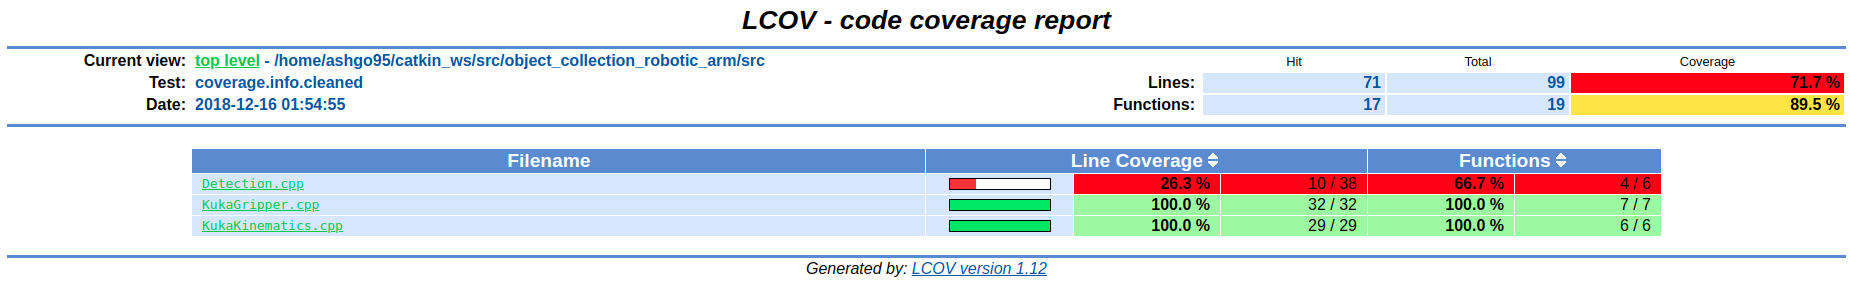
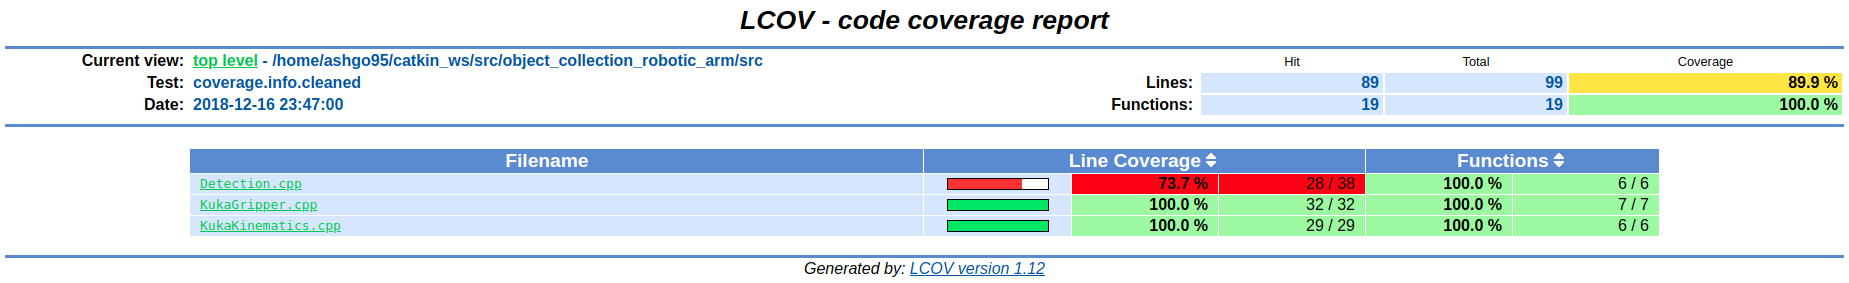
Task: 3-6: README
The readme file has been restructured and the code coverage has been updated as per the tests of the class Detection. We are still developing more tests, but for now this is the code coverage.

diff --git a/README.md b/README.md
@@ -76,6 +76,18 @@ The total length of the video presentation is approximately 20 minutes. To see a
 
 * To learn about the potential future work: [![Link 7](https://img.shields.io/badge/Link-7-blue.svg)](https://youtu.be/EBXnpds9feM?t=1069)
 
+## About the Developers
+
+This contributors for this project are:
+
+* Anirudh Topiwala 
+
+I am currently pursing my masters in Robotics at the University of Maryland,College Park. I hold a Bachelors degree in Mechanical Engineering from Institute of Technology, Nirma University, India. I wish to pursue a career in Robotics with a focus in Computer Vision. My resume and more about my projects can be found on [GitHub](https://github.com/anirudhtopiwala) and [LinkedIn](https://www.linkedin.com/in/anirudhtopiwala/).
+
+* Ashwin Goyal
+
+I am currently pursing my masters in Robotics at University of Maryland, College Park. I hold a Bachelors degree in Mechanical Engineering from Indian Institute of Technology Patna, India. I have worked for two automobile companies and a Robotics centered company in India. I have worked as a Technical Assistant for two courses at UMD. I wish to pursue a career in Robotics with a focus in Artificial Intelligence and Computer Vision. More about my projects can be found on [GitHub](https://github.com/Ghost1995/) and [LinkedIn](https://www.linkedin.com/in/ashwin-goyal/).
+
 ## Dependencies
 
 To run this program you need to have the following installed on your system:
@@ -143,6 +155,7 @@ roslaunch object_collection_robotic_arm kuka.launch Color:=BR
 roslaunch object_collection_robotic_arm kuka.launch Color:=RR
 roslaunch object_collection_robotic_arm kuka.launch Color:=BB
 roslaunch object_collection_robotic_arm kuka.launch Color:=GB
+roslaunch object_collection_robotic_arm kuka.launch Color:=GO
 ```
 Note the default configuration is RB and if no Color argument is given it will open in the default Red Blue disc configuration.
 
@@ -273,15 +286,14 @@ rosrun object_collection_robotic_arm allTests
 ```
 
 ## Code Coverage
-![Code coverage](https://img.shields.io/badge/coverage-71.7%25-red.svg)
-![Code coverage](https://img.shields.io/badge/coverage-100%25-green.svg)
+![Code coverage](https://img.shields.io/badge/coverage-93.3%25-green.svg)
 
-(NOTE: THESE ARE SELF GENERATED TAGS, not to be confused with the automatic generated tag from coveralls. The first tag is with the Detection Class whereas the second one is without the Detection Class. We have put in two tags as the test for class Detection are currently not running.)
+(NOTE: THIS IS A SELF GENERATED TAG, not to be confused with the automatic generated tag from coveralls.)
 
 Since there is currently some issue with coveralls picking up the build from travis and checking for code coverage, provided below is a screen shot of the coverage report generated using lcov, locally.
-For the First Coverage Tag:
+For the Source Files, the Code Coverage Report is:
 ![code_coverage](additional_files/lcov_coverage_1.png)
-For the Second Coverage Tag:
+For the Test Files, the Code Coverage Report is:
 ![code_coverage](additional_files/lcov_coverage_2.png)
 
 To run code coverage, you need lcov package. If this package is not installed, then to install the package, run the following command:
@@ -334,11 +346,11 @@ cpplint $(find . -name \*.cpp -or -name \*.hpp | grep -vE -e "^./docs/" -e "^./l
 
 ## Known Issues/Bugs
 
-There are majorly two issues with the algorithm:
+There are two major issues with the algorithm:
 
-* The code coverage is not being generated by coveralls. We have worked on this issue for more than 2 days now, but could not figure out why the code coverage is not being generated. The code coverage is running in my local repository but it is giving an error on travis. If possible, we will work on it further.
+* The code coverage is not being generated by coveralls. We have worked on this issue for more than 2 days now, but could not figure out why the code coverage is not being generated. The code coverage is running in my local repository but it is giving an error on Travis. If possible, we will work on it further.
 
-* The trajectory currently being followed by the robot is not an optimal trajectory. This trajectory is only optimal in cartesian space but not in joint space. This is because the issue with the KDL library could not be resolved. So, to generate an optimal trajectory, an inverse kinematic planner is required.
+* The trajectory currently being followed by the robot is not an optimal trajectory. This trajectory is only optimal in Cartesian space but not in joint space. This is because the issue with the KDL library could not be resolved. So, to generate an optimal trajectory, an inverse kinematic planner is required.
 
 All these issues can be seen in the project report on GitHub at this [link](https://github.com/Ghost1995/object_collection_robotic_arm/projects/1).
 
@@ -434,15 +446,3 @@ None of the authors or contributors, or anyone else connected with GitHub, in an
 whatsoever, can be responsible for your use of the information contained in or linked
 from this web page.
 ```
-
-## About the Developers
-
-This contributors for this project are:
-
-* Anirudh Topiwala 
-
-I am currently pursing my masters in Robotics at the University of Maryland,College Park. I hold a Bachelors degree in Mechanical Engineering from Institute of Technology, Nirma University, India. I wish to pursue a career in Robotics with a focus in Computer Vision. My resume and more about my projects can be found on [GitHub](https://github.com/anirudhtopiwala) and [LinkedIn](https://www.linkedin.com/in/anirudhtopiwala/).
-
-* Ashwin Goyal
-
-I am currently pursing my masters in Robotics at University of Maryland, College Park. I hold a Bachelors degree in Mechanical Engineering from Indian Institute of Technology Patna, India. I have worked for two automobile companies and a Robotics centered company in India. I have worked as a Technical Assistant for two courses at UMD. I wish to pursue a career in Robotics with a focus in Artificial Intelligence and Computer Vision. More about my projects can be found on [GitHub](https://github.com/Ghost1995/) and [LinkedIn](https://www.linkedin.com/in/ashwin-goyal/).
